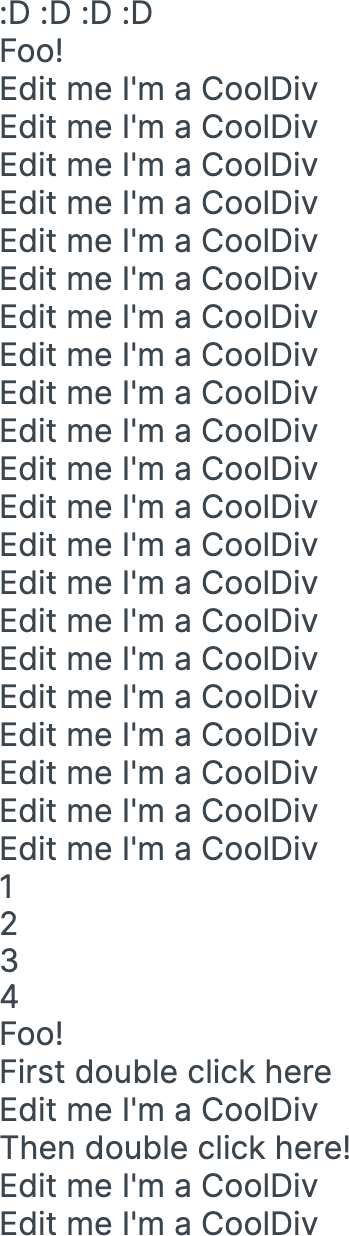
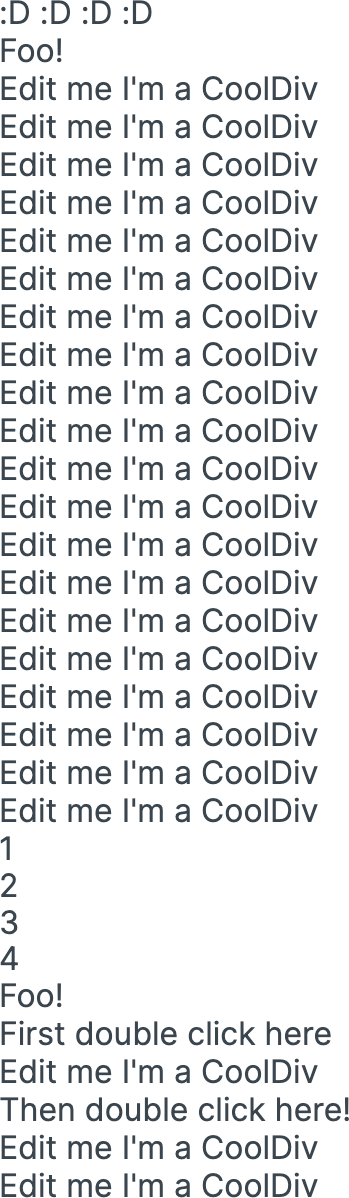
[ecu] Delete component App in App

Changed region(s): [[0.0, 0.0309, 1.0, 1.0], [0.5731, 0.0618, 0.9169, 0.7104], [0.3438, 0.0618, 0.5444, 0.7104]]

diff --git a/app/src/App.tsx b/app/src/App.tsx
@@ -52,7 +52,7 @@ function App(props: AppPropsType) {
       <CoolDiv />
       <CoolDiv />
       
-      <CoolDiv />
+      
       <CoolDiv />
       <CoolDiv />
       <CoolDiv />
